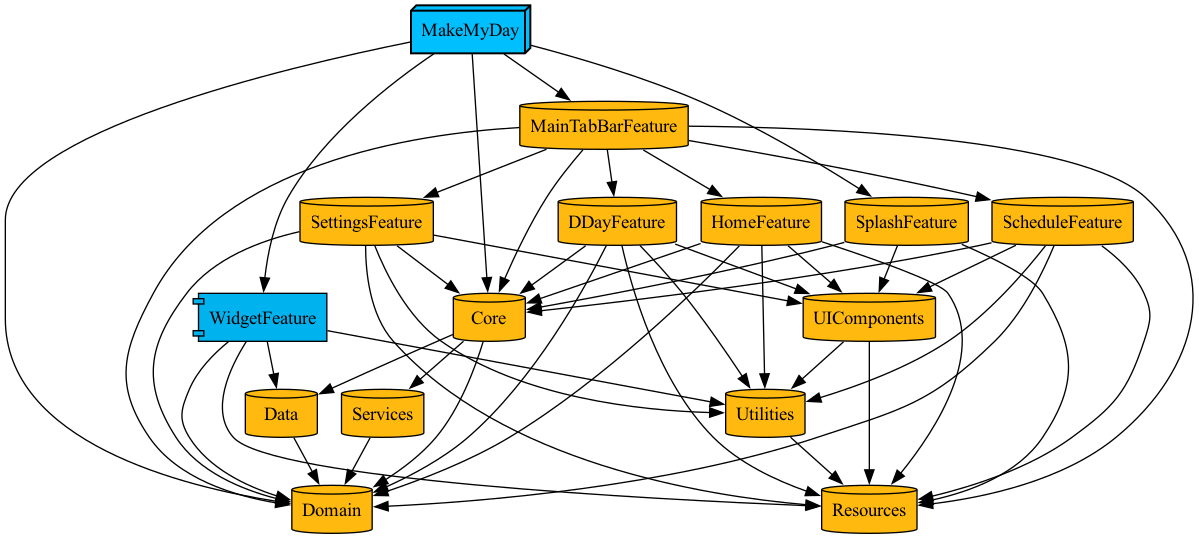
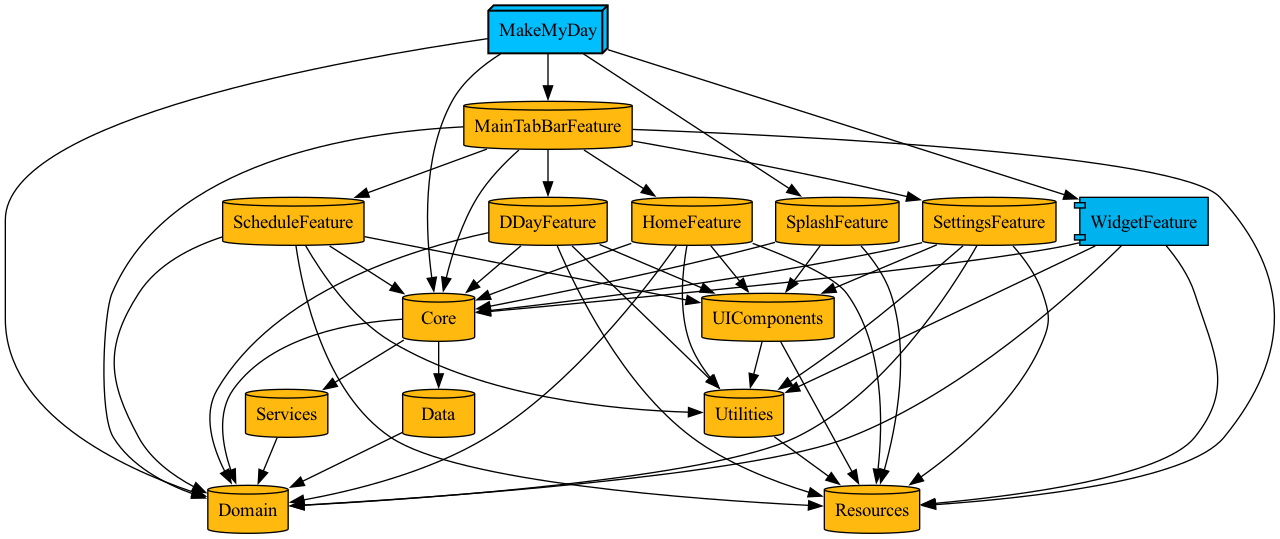
chore: WidgetFeature에서 Data 의존성 제거

diff --git a/App/WidgetFeature/Sources/WidgetView.swift b/App/WidgetFeature/Sources/WidgetView.swift
@@ -9,10 +9,11 @@
 import SwiftUI
 import WidgetKit
 import AppIntents
+import Core
 import Domain
-import Data
 import Utilities
 import Resources
+import ComposableArchitecture
 
 enum WidgetDisplayType: String, AppEnum {
     case ddayWithSchedule = "widget_ddayWithSchedule"
@@ -42,9 +43,8 @@ struct DDayEntity: AppEntity {
 
 struct DDayQuery: EntityQuery {
     func entities(for identifiers: [String]) async throws -> [DDayEntity] {
-        let modelContainer = ModelContainerClientImpl.create(schemas: [DDay.self, Schedule.self])
-        let repository = await DDayRepositoryImpl(modelContainer: modelContainer)
-        let allDDays = try await repository.fetchAllDDays()
+        let ddayRepository = await DDayRepositoryKey.liveValue
+        let allDDays = try await ddayRepository.fetchAllDDays()
         
         return allDDays
             .filter { identifiers.contains($0.id.uuidString) }
@@ -52,10 +52,8 @@ struct DDayQuery: EntityQuery {
     }
     
     func suggestedEntities() async throws -> [DDayEntity] {
-        let modelContainer = ModelContainerClientImpl.create(schemas: [DDay.self, Schedule.self])
-        let repository = await DDayRepositoryImpl(modelContainer: modelContainer)
-        let allDDays = try await repository.fetchAllDDays()
-        
+        let ddayRepository = await DDayRepositoryKey.liveValue
+        let allDDays = try await ddayRepository.fetchAllDDays()
         return allDDays.map { DDayEntity(id: $0.id.uuidString, title: $0.title) }
     }
 }
@@ -65,7 +63,7 @@ struct ConfigurationAppIntent: WidgetConfigurationIntent {
     static var description = IntentDescription("widget_displayContents")
     
     @Parameter(title: "widget_displayType")
-    var displayType: WidgetDisplayType
+    var displayType: WidgetDisplayType?
     
     @Parameter(title: "widget_ddaySelect")
     var selectedDDays: [DDayEntity]?
@@ -74,7 +72,7 @@ struct ConfigurationAppIntent: WidgetConfigurationIntent {
         self.displayType = .ddayWithSchedule
     }
     
-    init(displayType: WidgetDisplayType, selectedDDays: [DDayEntity]?) {
+    init(displayType: WidgetDisplayType?, selectedDDays: [DDayEntity]?) {
         self.displayType = displayType
         self.selectedDDays = selectedDDays
     }
@@ -104,15 +102,8 @@ struct MMDWidgetEntryView : View {
     var entry: Provider.Entry
     @Environment(\.widgetFamily) private var widgetFamily
     
-    let modelContainer = ModelContainerClientImpl.create(schemas: [DDay.self, Schedule.self])
-    
-    var ddayRepository: DDayRepository {
-        DDayRepositoryImpl(modelContainer: modelContainer)
-    }
-    
-    var scheduleRepository: ScheduleRepository {
-        ScheduleRepositoryImpl(modelContainer: modelContainer)
-    }
+    @Dependency(\.ddayRepository) var ddayRepository
+    @Dependency(\.scheduleRepository) var scheduleRepository
     
     var ddays: [DDay] {
         let allDDays = (try? ddayRepository.fetchAllDDays()) ?? []
@@ -188,7 +179,7 @@ struct MMDWidgetEntryView : View {
     }
     
     var body: some View {
-        let displayType = entry.configuration.displayType
+        let displayType = entry.configuration.displayType ?? WidgetDisplayType.ddayWithSchedule
         
         switch widgetFamily {
         case .systemSmall:
@@ -212,7 +203,6 @@ struct MMDWidgetEntryView : View {
                 schedules: todaySchedules,
                 displayType: displayType
             )
-            //        case .systemExtraLarge:
             
         case .accessoryCircular:
             CircularWidgetView(scheduleCount: todayScheduleCount)

diff --git a/Core/Sources/DependencyValues+Extensions.swift b/Core/Sources/DependencyValues+Extensions.swift
@@ -52,21 +52,21 @@ private let sharedModelContainer = ModelContainerClientImpl.create(schemas: [
 ])
 
 @MainActor
-private enum ScheduleRepositoryKey: @preconcurrency DependencyKey {
-    static var liveValue: ScheduleRepository = {
+public enum ScheduleRepositoryKey: @preconcurrency DependencyKey {
+    public static var liveValue: ScheduleRepository = {
         return ScheduleRepositoryImpl(modelContainer: sharedModelContainer)
     }()
     
-    static let testValue: ScheduleRepository = MockScheduleRepositoryImpl()
+    public static let testValue: ScheduleRepository = MockScheduleRepositoryImpl()
 }
 
 @MainActor
-private enum DDayRepositoryKey: @preconcurrency DependencyKey {
-    static let liveValue: DDayRepository = {
+public enum DDayRepositoryKey: @preconcurrency DependencyKey {
+    public static let liveValue: DDayRepository = {
         return DDayRepositoryImpl(modelContainer: sharedModelContainer)
     }()
     
-    static let testValue: DDayRepository = MockDDayRepositoryImpl()
+    public static let testValue: DDayRepository = MockDDayRepositoryImpl()
 }
 
 private enum AppVersionServiceKey: DependencyKey {

diff --git a/App/Project.swift b/App/Project.swift
@@ -156,10 +156,11 @@ private let project = Project(
             resources: ["WidgetFeature/Resources/**"],
             entitlements: .file(path: "Signing/WidgetFeature.entitlements"),
             dependencies: [
+                .project(target: "Core", path: .relativeToRoot("Core")),
                 .project(target: "Domain", path: .relativeToRoot("Shared/Domain")),
-                .project(target: "Data", path: .relativeToRoot("Shared/Data")),
                 .project(target: "Utilities", path: .relativeToRoot("Shared/Utilities")),
                 .project(target: "Resources", path: .relativeToRoot("Shared/Resources")),
+                .external(name: "ComposableArchitecture"),
             ],
             settings: .settings(
                 base: [:],

diff --git a/Shared/Domain/Sources/Interfaces/ScheduleRepository.swift b/Shared/Domain/Sources/Interfaces/ScheduleRepository.swift
@@ -2,7 +2,7 @@ import Foundation
 import SwiftData
 
 @MainActor
-public protocol ScheduleRepository {
+public protocol ScheduleRepository: Sendable {
     func fetchAllSchedules() throws -> [Schedule]
     func fetchSchedules(forDate date: Date) throws -> [Schedule]
     func searchSchedules(byTitle title: String) throws -> [Schedule]

diff --git a/Shared/Domain/Sources/Interfaces/DDayRepository.swift b/Shared/Domain/Sources/Interfaces/DDayRepository.swift
@@ -2,7 +2,7 @@ import Foundation
 import SwiftData
 
 @MainActor
-public protocol DDayRepository {
+public protocol DDayRepository: Sendable {
     func fetchAllDDays() throws -> [DDay]
     func addDDay(_ dday: DDay) throws
     func updateDDay(_ dday: DDay) throws
